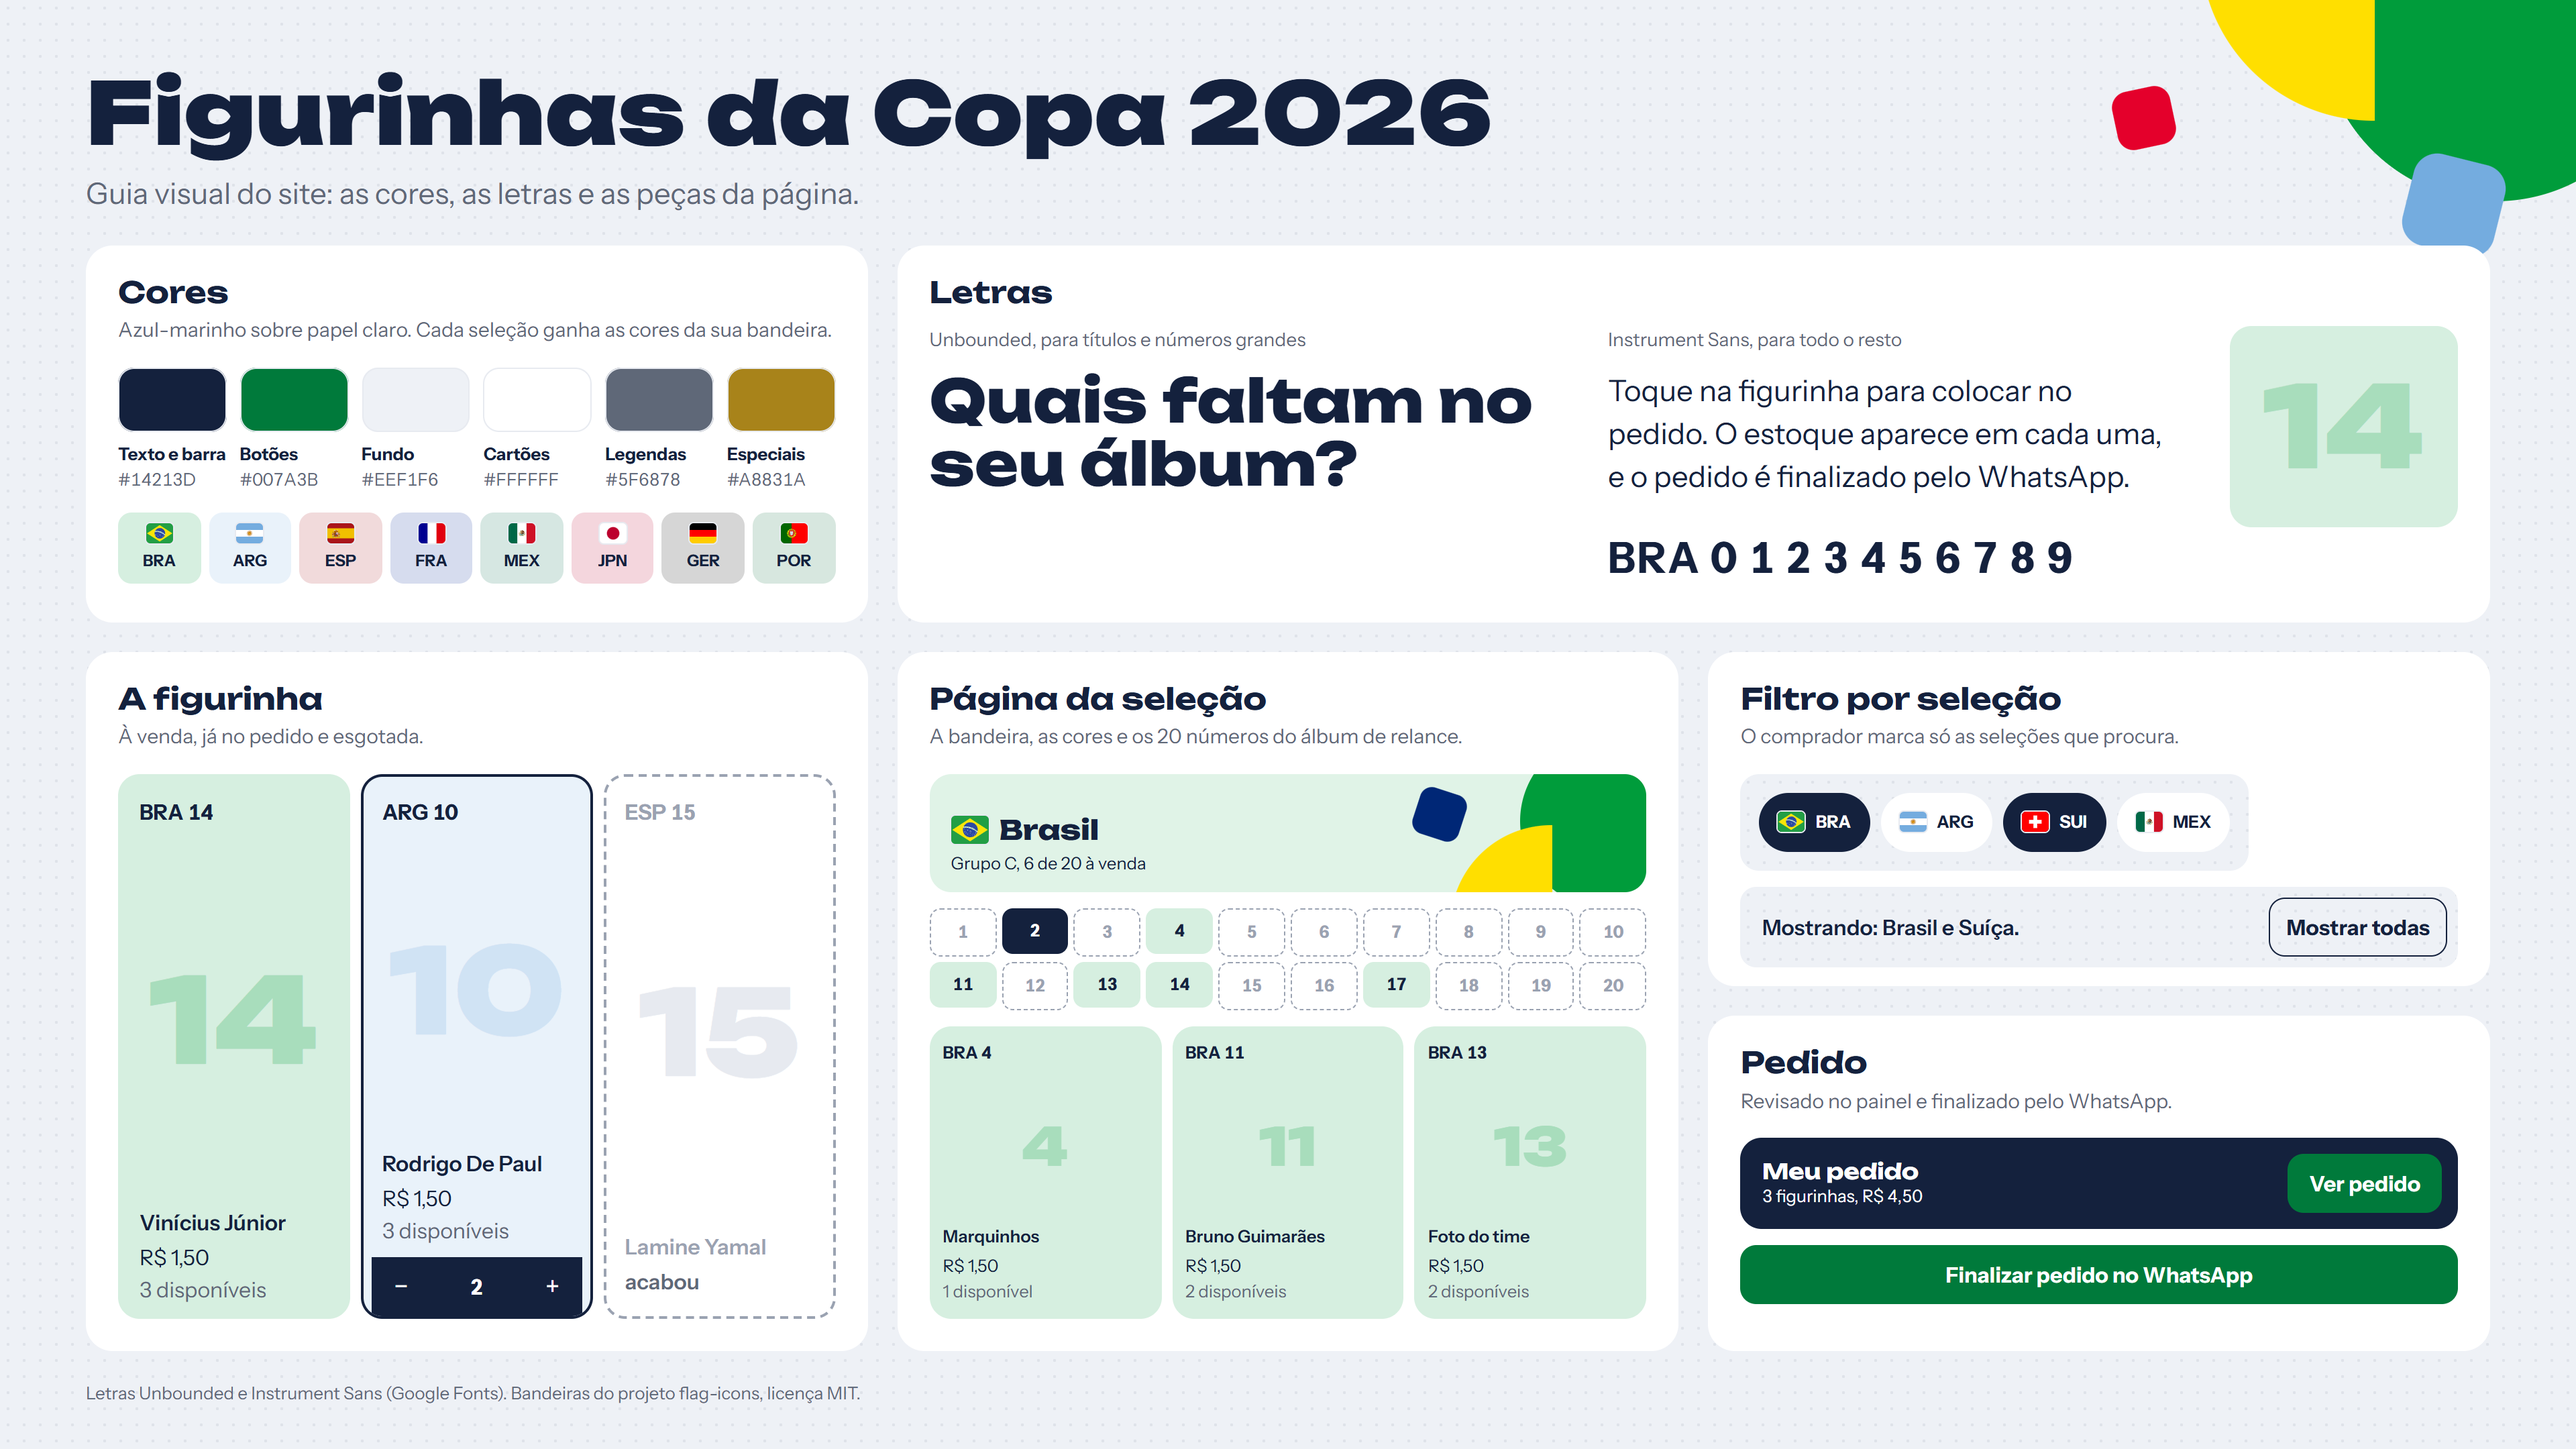
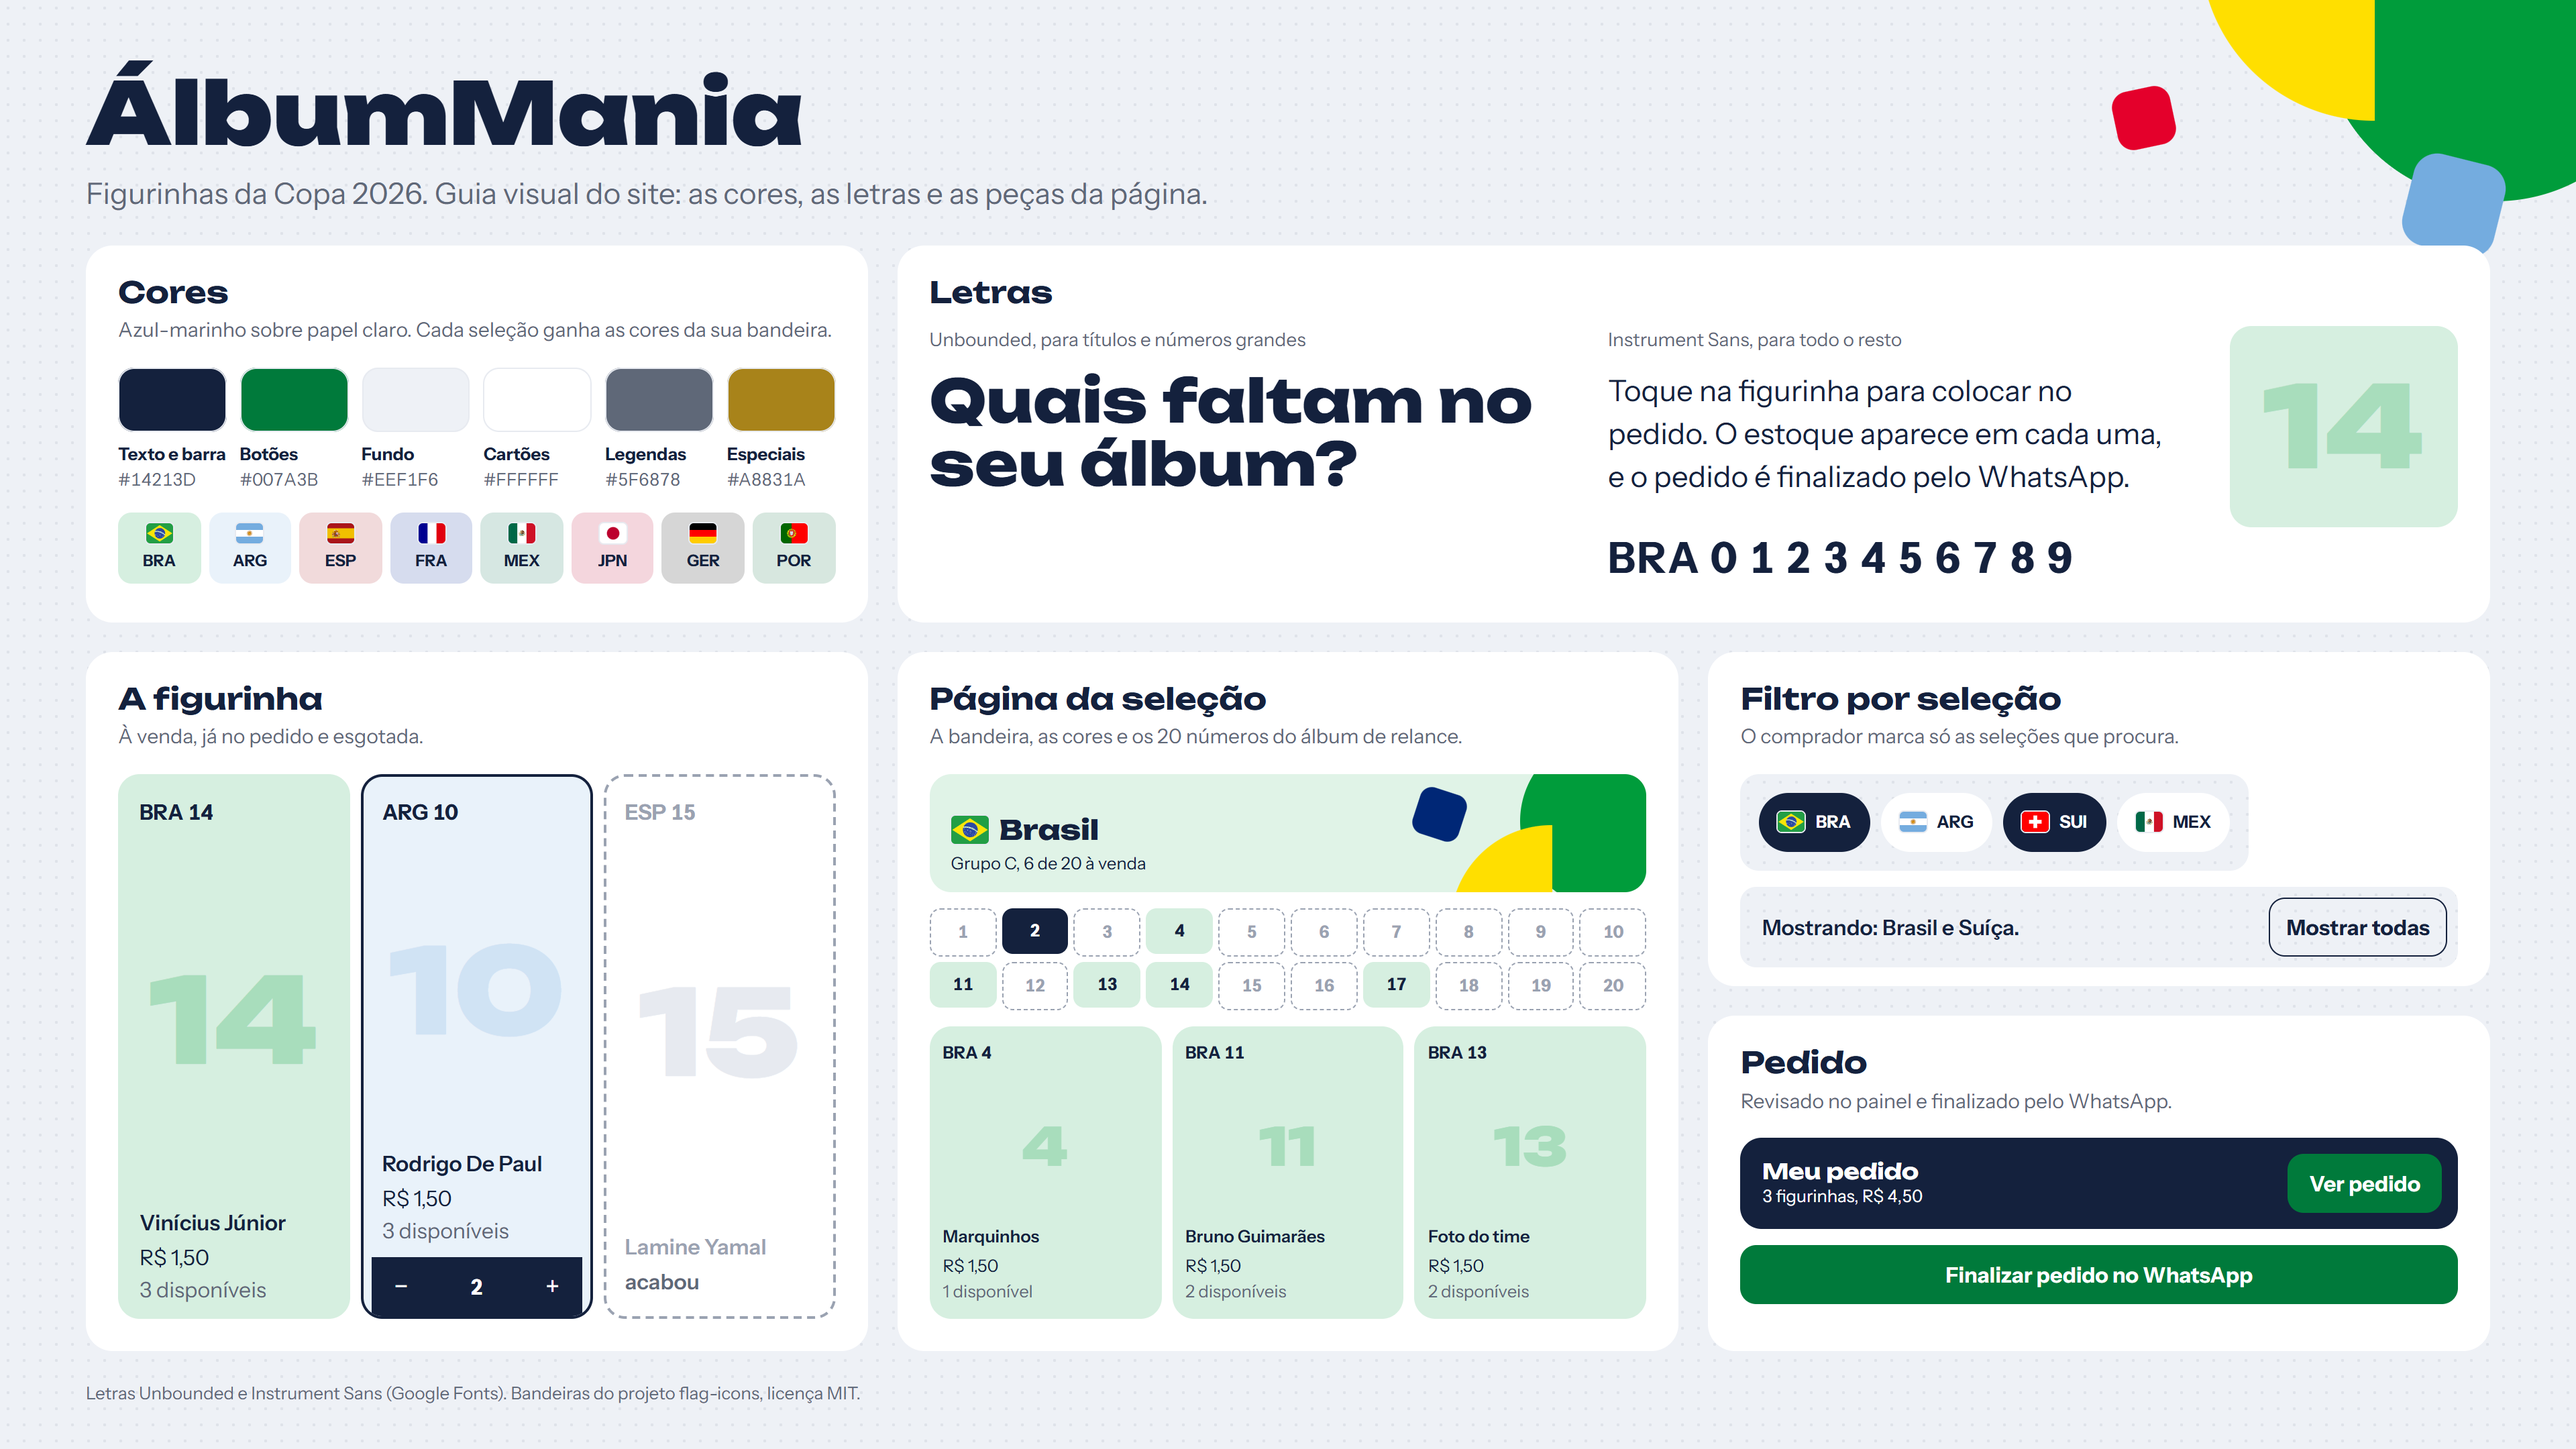
feat: renomeia o site para ÁlbumMania, com o caminho /albummania/

Changed region(s): [[0.0312, 0.031, 0.5938, 0.1551]]

diff --git a/previa/index.html b/previa/index.html
@@ -4,20 +4,21 @@
     <meta charset="UTF-8" />
     <meta name="viewport" content="width=device-width, initial-scale=1.0" />
     <link rel="icon" type="image/svg+xml" href="/favicon.svg" />
-    <title>Figurinhas da Copa 2026 (prévia)</title>
-    <meta name="description" content="Veja as figurinhas à venda, monte seu pedido e finalize pelo WhatsApp." />
+    <title>ÁlbumMania: figurinhas da Copa 2026 (prévia)</title>
+    <meta name="description" content="Figurinhas da Copa 2026: veja o que tem à venda, monte seu pedido e finalize pelo WhatsApp." />
     <meta name="robots" content="noindex" />
     <meta name="theme-color" content="#14213d" />
 
     <meta property="og:type" content="website" />
     <meta property="og:locale" content="pt_BR" />
-    <meta property="og:title" content="Figurinhas da Copa 2026" />
-    <meta property="og:description" content="Veja o que tem à venda, monte seu pedido e finalize pelo WhatsApp." />
-    <meta property="og:url" content="https://eduardofedeli.github.io/catalogo-figurinhas/previa/" />
-    <meta property="og:image" content="https://eduardofedeli.github.io/catalogo-figurinhas/previa/og.png" />
+    <meta property="og:site_name" content="ÁlbumMania" />
+    <meta property="og:title" content="ÁlbumMania" />
+    <meta property="og:description" content="Figurinhas da Copa 2026: veja o que tem à venda, monte seu pedido e finalize pelo WhatsApp." />
+    <meta property="og:url" content="https://eduardofedeli.github.io/albummania/previa/" />
+    <meta property="og:image" content="https://eduardofedeli.github.io/albummania/previa/og.png" />
     <meta property="og:image:width" content="1200" />
     <meta property="og:image:height" content="630" />
-    <meta property="og:image:alt" content="Figurinhas da Copa 2026: espaços do álbum com os números das figurinhas à venda" />
+    <meta property="og:image:alt" content="ÁlbumMania: espaços do álbum com os números das figurinhas da Copa 2026 à venda" />
     <meta name="twitter:card" content="summary_large_image" />
 
     <link rel="preconnect" href="https://fonts.googleapis.com" />

diff --git a/src/previa/Prancha.tsx b/src/previa/Prancha.tsx
@@ -93,8 +93,8 @@ export function Prancha() {
       </div>
 
       <header className="pr-topo">
-        <h1>Figurinhas da Copa 2026</h1>
-        <p>Guia visual do site: as cores, as letras e as peças da página.</p>
+        <h1>ÁlbumMania</h1>
+        <p>Figurinhas da Copa 2026. Guia visual do site: as cores, as letras e as peças da página.</p>
       </header>
 
       <section className="pr-cartao pr-cores">
@@ -246,8 +246,8 @@ export function ImagemDoLink() {
         <i />
       </div>
       <div className="pr-og-texto">
-        <h1>Figurinhas da Copa 2026</h1>
-        <p>Veja o que tem à venda e peça pelo WhatsApp.</p>
+        <h1>ÁlbumMania</h1>
+        <p>Figurinhas da Copa 2026: veja o que tem à venda e peça pelo WhatsApp.</p>
         <div className="pr-og-bandeiras">
           {['BRA', 'ARG', 'FRA', 'ESP', 'POR', 'GER'].map((sigla) => (
             <Bandeira key={sigla} sigla={sigla} className="pr-og-bandeira" />

diff --git a/src/App.tsx b/src/App.tsx
@@ -24,10 +24,13 @@ export default function App() {
 
   return (
     <main>
-      <h1>Catálogo de Figurinhas</h1>
+      <h1>ÁlbumMania</h1>
       {estado.tipo === 'carregando' && <p>Carregando a planilha…</p>}
       {estado.tipo === 'pronto' && <p>{estado.linhas} figurinhas carregadas da planilha.</p>}
       {estado.tipo === 'erro' && <p>Não foi possível carregar a planilha: {estado.mensagem}</p>}
+      <p>
+        <a href="previa/">Ver a prévia do catálogo</a>
+      </p>
       <p>
         <small>Versão: {import.meta.env.VITE_VERSAO?.slice(0, 7) ?? 'local'}</small>
       </p>

diff --git a/vite.config.ts b/vite.config.ts
@@ -6,8 +6,8 @@ import { defineConfig } from 'vite'
 const pagina = (caminho: string) => fileURLToPath(new URL(caminho, import.meta.url))
 
 export default defineConfig({
-  // O Pages serve o site em /catalogo-figurinhas/; sem isso, CSS e JS dão 404 em produção.
-  base: '/catalogo-figurinhas/',
+  // O Pages serve o site em /albummania/ (o nome do repositório); sem isso, CSS e JS dão 404 em produção.
+  base: '/albummania/',
   plugins: [react()],
   build: {
     rolldownOptions: {

diff --git a/previa/prancha.html b/previa/prancha.html
@@ -4,7 +4,7 @@
     <meta charset="UTF-8" />
     <meta name="viewport" content="width=device-width, initial-scale=1.0" />
     <link rel="icon" type="image/svg+xml" href="/favicon.svg" />
-    <title>Figurinhas da Copa 2026 (guia visual)</title>
+    <title>ÁlbumMania (guia visual)</title>
     <meta name="robots" content="noindex" />
     <link rel="preconnect" href="https://fonts.googleapis.com" />
     <link rel="preconnect" href="https://fonts.gstatic.com" crossorigin />

diff --git a/src/prototipo/dados.ts b/src/prototipo/dados.ts
@@ -33,7 +33,7 @@ function lerCatalogo(csv: string): FigurinhaP[] {
 
 function lerConfig(csv: string) {
   const precos: Record<string, number> = {}
-  let nomeLoja = 'Figurinhas'
+  let nomeLoja = 'ÁlbumMania'
   let whatsapp = ''
   for (const [chave, valor] of csv.split(/\r?\n/).map(colunas)) {
     if (chave?.startsWith('Preço ')) precos[chave.slice(6)] = Number(valor.replace(',', '.'))

diff --git a/index.html b/index.html
@@ -4,7 +4,7 @@
     <meta charset="UTF-8" />
     <meta name="viewport" content="width=device-width, initial-scale=1.0" />
     <link rel="icon" type="image/svg+xml" href="/favicon.svg" />
-    <title>Catálogo de Figurinhas</title>
+    <title>ÁlbumMania</title>
   </head>
   <body>
     <div id="root"></div>
